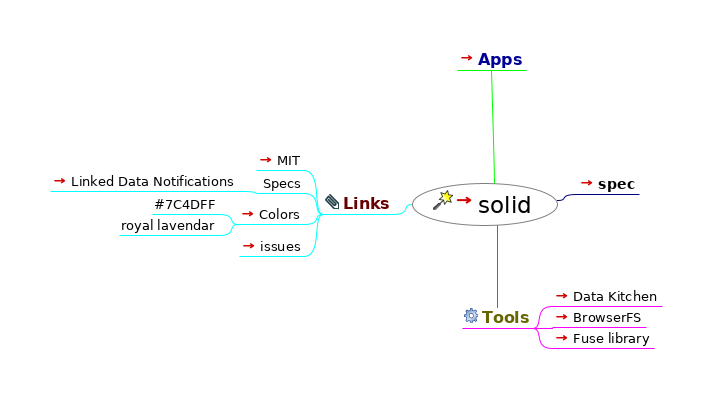
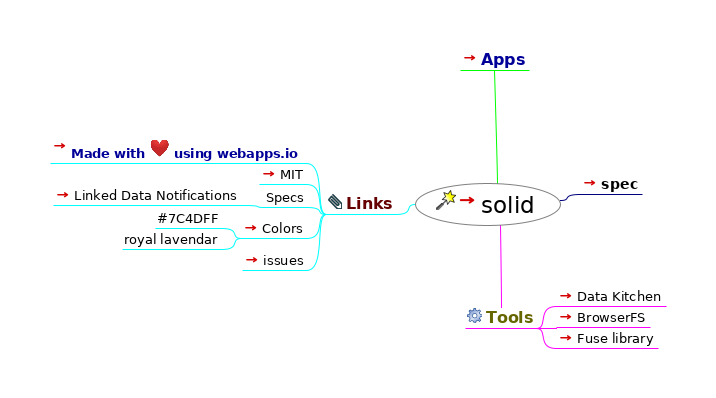
fix typo

diff --git a/index.html b/index.html
@@ -23,22 +23,25 @@
                    };
                };
           
-          --></script></head><body><h1>solid</h1><div style="width:96%;  padding:2%;  margin-bottom:10px;  border: 0px;  text-align:center;  vertical-align:center;"><img src="index.html_files/image.png" style="margin-bottom:10px; &#9;border: 0px; &#9;text-align:center; &#9;vertical-align:center;" alt="Imagemap" usemap="#fm_imagemap" /></div><map name="fm_imagemap" id="fm_imagemap"><area shape="rect" href="../tech/index.html" alt="solid" title="solid" coords="412,183,558,226" />
-<area shape="rect" href="apps/index.html" alt="Apps" title="Apps" coords="457,50,526,70" />
-<area shape="rect" href="spec/index.html" alt="spec" title="spec" coords="577,175,639,194" />
-<area shape="rect" href="#FMID_1810859973FM" alt="Tools" title="Tools" coords="462,308,533,328" />
-<area shape="rect" href="https://github.com/solid/data-kitchen" alt="Data Kitchen" title="Data Kitchen" coords="552,288,662,306" />
-<area shape="rect" href="https://github.com/jvilk/BrowserFS" alt="BrowserFS" title="BrowserFS" coords="552,309,646,327" />
-<area shape="rect" href="https://github.com/fuse-friends/fuse-native" alt="Fuse library" title="Fuse library" coords="552,330,654,348" />
-<area shape="rect" href="#FMID_777477932FM" alt="Links" title="Links" coords="323,194,393,214" />
-<area shape="rect" href="https://solid.mit.edu" alt="MIT" title="MIT" coords="256,152,304,170" />
-<area shape="rect" href="#FMID_1604622862FM" alt="Specs" title="Specs" coords="261,175,304,193" />
-<area shape="rect" href="https://www.w3.org/TR/ldn/" alt="Linked Data Notifications" title="Linked Data Notifications" coords="50,173,242,191" />
-<area shape="rect" href="https://design.inrupt.com/atomic-core/?cat=Core#Colors" alt="Colors" title="Colors" coords="238,206,304,224" />
-<area shape="rect" href="#FMID_1864362129FM" alt="#7C4DFF" title="#7C4DFF" coords="152,196,219,214" />
-<area shape="rect" href="#FMID_1993946970FM" alt="royal lavendar" title="royal lavendar" coords="119,217,219,235" />
-<area shape="rect" href="issues/index.html" alt="issues" title="issues" coords="239,238,304,256" />
+          --></script></head><body><h1>solid</h1><div style="width:96%;  padding:2%;  margin-bottom:10px;  border: 0px;  text-align:center;  vertical-align:center;"><img src="index.html_files/image.png" style="margin-bottom:10px; &#9;border: 0px; &#9;text-align:center; &#9;vertical-align:center;" alt="Imagemap" usemap="#fm_imagemap" /></div><map name="fm_imagemap" id="fm_imagemap"><area shape="rect" href="../tech/index.html" alt="solid" title="solid" coords="415,183,561,226" />
+<area shape="rect" href="apps/index.html" alt="Apps" title="Apps" coords="460,50,529,70" />
+<area shape="rect" href="spec/index.html" alt="spec" title="spec" coords="580,175,642,194" />
+<area shape="rect" href="#FMID_1810859973FM" alt="Tools" title="Tools" coords="465,308,537,328" />
+<area shape="rect" href="https://github.com/solid/data-kitchen" alt="Data Kitchen" title="Data Kitchen" coords="556,288,666,306" />
+<area shape="rect" href="https://github.com/jvilk/BrowserFS" alt="BrowserFS" title="BrowserFS" coords="556,309,650,327" />
+<area shape="rect" href="https://github.com/fuse-friends/fuse-native" alt="Fuse library" title="Fuse library" coords="556,330,658,348" />
+<area shape="rect" href="#FMID_777477932FM" alt="Links" title="Links" coords="326,194,396,214" />
+<area shape="rect" href="https://webapps.io/" alt="Made with  using webapps.io" title="Made with  using webapps.io" coords="50,138,307,163" />
+<area shape="rect" href="https://solid.mit.edu" alt="MIT" title="MIT" coords="259,166,307,184" />
+<area shape="rect" href="#FMID_1604622862FM" alt="Specs" title="Specs" coords="264,189,307,207" />
+<area shape="rect" href="https://www.w3.org/TR/ldn/" alt="Linked Data Notifications" title="Linked Data Notifications" coords="53,187,245,205" />
+<area shape="rect" href="https://design.inrupt.com/atomic-core/?cat=Core#Colors" alt="Colors" title="Colors" coords="241,220,307,238" />
+<area shape="rect" href="#FMID_1864362129FM" alt="#7C4DFF" title="#7C4DFF" coords="155,210,222,228" />
+<area shape="rect" href="#FMID_1993946970FM" alt="royal lavendar" title="royal lavendar" coords="122,231,222,249" />
+<area shape="rect" href="issues/index.html" alt="issues" title="issues" coords="242,252,307,270" />
 </map>
 
-<div class="node"><img src="index.html_files/hide.png" class="hideshow" alt="hide" onClick="toggle(&quot;N65543&quot;)" id="imgN65543" /><img src="index.html_files/icons/wizard.svg" alt="wizard" /> <a id="FMID_237352286FM" /><div class="nodecontent" style="color:#000000;font-size:150%;"><a href="../tech/index.html">solid</a> <a href="../tech/index.html"><img src="index.html_files/ilink.png" alt="User Link" style="border-width:0" /></a></div><div class="content" id="N65543"><div class="node"><img src="index.html_files/leaf.png" class="hideshow" alt="leaf" /><a id="FMID_1861071781FM" /><div class="nodecontent" style="color:#000099;font-size:100%;font-weight:bold;"><a href="apps/index.html">Apps</a> <a href="apps/index.html"><img src="index.html_files/ilink.png" alt="User Link" style="border-width:0" /></a></div></div><div class="node"><img src="index.html_files/leaf.png" class="hideshow" alt="leaf" /><a id="FMID_45632273FM" /><div class="nodecontent" style="color:#000000;font-size:92%;font-weight:bold;"><a href="spec/index.html">spec</a> <a href="spec/index.html"><img src="index.html_files/ilink.png" alt="User Link" style="border-width:0" /></a></div></div><div class="node"><img src="index.html_files/hide.png" class="hideshow" alt="hide" onClick="toggle(&quot;N66523&quot;)" id="imgN66523" /><img src="index.html_files/icons/executable.svg" alt="executable" /> <a id="FMID_1810859973FM" /><div class="nodecontent" style="color:#666600;font-size:100%;font-weight:bold;">Tools</div><div class="content" id="N66523"><div class="node"><img src="index.html_files/leaf.png" class="hideshow" alt="leaf" /><a id="FMID_464490085FM" /><div class="nodecontent" style="color:#000000;font-size:83%;"><a href="https://github.com/solid/data-kitchen">Data Kitchen</a> <a href="https://github.com/solid/data-kitchen"><img src="index.html_files/ilink.png" alt="User Link" style="border-width:0" /></a></div></div><div class="node"><img src="index.html_files/leaf.png" class="hideshow" alt="leaf" /><a id="FMID_254470917FM" /><div class="nodecontent" style="color:#000000;font-size:83%;"><a href="https://github.com/jvilk/BrowserFS">BrowserFS</a> <a href="https://github.com/jvilk/BrowserFS"><img src="index.html_files/ilink.png" alt="User Link" style="border-width:0" /></a></div></div><div class="node"><img src="index.html_files/leaf.png" class="hideshow" alt="leaf" /><a id="FMID_845285837FM" /><div class="nodecontent" style="color:#000000;font-size:83%;"><a href="https://github.com/fuse-friends/fuse-native">Fuse library</a> <a href="https://github.com/fuse-friends/fuse-native"><img src="index.html_files/ilink.png" alt="User Link" style="border-width:0" /></a></div></div></div></div><div class="node"><img src="index.html_files/hide.png" class="hideshow" alt="hide" onClick="toggle(&quot;N66678&quot;)" id="imgN66678" /><img src="index.html_files/icons/attach.svg" alt="attach" /> <a id="FMID_777477932FM" /><div class="nodecontent" style="color:#660000;font-size:100%;font-weight:bold;">Links</div><div class="content" id="N66678"><div class="node"><img src="index.html_files/leaf.png" class="hideshow" alt="leaf" /><a id="FMID_671925292FM" /><div class="nodecontent" style="color:#000000;font-size:83%;"><a href="https://solid.mit.edu">MIT</a> <a href="https://solid.mit.edu"><img src="index.html_files/ilink.png" alt="User Link" style="border-width:0" /></a></div></div><div class="node"><img src="index.html_files/hide.png" class="hideshow" alt="hide" onClick="toggle(&quot;N66756&quot;)" id="imgN66756" /><a id="FMID_1604622862FM" /><div class="nodecontent" style="color:#000000;font-size:83%;">Specs</div><div class="content" id="N66756"><div class="node"><img src="index.html_files/leaf.png" class="hideshow" alt="leaf" /><a id="FMID_1990139043FM" /><div class="nodecontent" style="color:#000000;font-size:83%;"><a href="https://www.w3.org/TR/ldn/">Linked Data Notifications</a> <a href="https://www.w3.org/TR/ldn/"><img src="index.html_files/ilink.png" alt="User Link" style="border-width:0" /></a></div></div></div></div><div class="node"><img src="index.html_files/hide.png" class="hideshow" alt="hide" onClick="toggle(&quot;N66829&quot;)" id="imgN66829" /><a id="FMID_960031878FM" /><div class="nodecontent" style="color:#000000;font-size:83%;"><a href="https://design.inrupt.com/atomic-core/?cat=Core#Colors">Colors</a> <a href="https://design.inrupt.com/atomic-core/?cat=Core#Colors"><img src="index.html_files/ilink.png" alt="User Link" style="border-width:0" /></a></div><div class="content" id="N66829"><div class="node"><img src="index.html_files/leaf.png" class="hideshow" alt="leaf" /><a id="FMID_1864362129FM" /><div class="nodecontent" style="color:#000000;font-size:83%;">#7C4DFF</div></div><div class="node"><img src="index.html_files/leaf.png" class="hideshow" alt="leaf" /><a id="FMID_1993946970FM" /><div class="nodecontent" style="color:#000000;font-size:83%;">royal lavendar</div></div></div></div><div class="node"><img src="index.html_files/leaf.png" class="hideshow" alt="leaf" /><a id="FMID_1662681886FM" /><div class="nodecontent" style="color:#000000;font-size:83%;"><a href="issues/index.html">issues</a> <a href="issues/index.html"><img src="index.html_files/ilink.png" alt="User Link" style="border-width:0" /></a></div></div></div></div></div></div>
+<div class="node"><img src="index.html_files/hide.png" class="hideshow" alt="hide" onClick="toggle(&quot;N65543&quot;)" id="imgN65543" /><img src="index.html_files/icons/wizard.svg" alt="wizard" /> <a id="FMID_237352286FM" /><div class="nodecontent" style="color:#000000;font-size:150%;"><a href="../tech/index.html">solid</a> <a href="../tech/index.html"><img src="index.html_files/ilink.png" alt="User Link" style="border-width:0" /></a></div><div class="content" id="N65543"><div class="node"><img src="index.html_files/leaf.png" class="hideshow" alt="leaf" /><a id="FMID_1861071781FM" /><div class="nodecontent" style="color:#000099;font-size:100%;font-weight:bold;"><a href="apps/index.html">Apps</a> <a href="apps/index.html"><img src="index.html_files/ilink.png" alt="User Link" style="border-width:0" /></a></div></div><div class="node"><img src="index.html_files/leaf.png" class="hideshow" alt="leaf" /><a id="FMID_45632273FM" /><div class="nodecontent" style="color:#000000;font-size:92%;font-weight:bold;"><a href="spec/index.html">spec</a> <a href="spec/index.html"><img src="index.html_files/ilink.png" alt="User Link" style="border-width:0" /></a></div></div><div class="node"><img src="index.html_files/hide.png" class="hideshow" alt="hide" onClick="toggle(&quot;N66523&quot;)" id="imgN66523" /><img src="index.html_files/icons/executable.svg" alt="executable" /> <a id="FMID_1810859973FM" /><div class="nodecontent" style="color:#666600;font-size:100%;font-weight:bold;">Tools</div><div class="content" id="N66523"><div class="node"><img src="index.html_files/leaf.png" class="hideshow" alt="leaf" /><a id="FMID_464490085FM" /><div class="nodecontent" style="color:#000000;font-size:83%;"><a href="https://github.com/solid/data-kitchen">Data Kitchen</a> <a href="https://github.com/solid/data-kitchen"><img src="index.html_files/ilink.png" alt="User Link" style="border-width:0" /></a></div></div><div class="node"><img src="index.html_files/leaf.png" class="hideshow" alt="leaf" /><a id="FMID_254470917FM" /><div class="nodecontent" style="color:#000000;font-size:83%;"><a href="https://github.com/jvilk/BrowserFS">BrowserFS</a> <a href="https://github.com/jvilk/BrowserFS"><img src="index.html_files/ilink.png" alt="User Link" style="border-width:0" /></a></div></div><div class="node"><img src="index.html_files/leaf.png" class="hideshow" alt="leaf" /><a id="FMID_845285837FM" /><div class="nodecontent" style="color:#000000;font-size:83%;"><a href="https://github.com/fuse-friends/fuse-native">Fuse library</a> <a href="https://github.com/fuse-friends/fuse-native"><img src="index.html_files/ilink.png" alt="User Link" style="border-width:0" /></a></div></div></div></div><div class="node"><img src="index.html_files/hide.png" class="hideshow" alt="hide" onClick="toggle(&quot;N66678&quot;)" id="imgN66678" /><img src="index.html_files/icons/attach.svg" alt="attach" /> <a id="FMID_777477932FM" /><div class="nodecontent" style="color:#660000;font-size:100%;font-weight:bold;">Links</div><div class="content" id="N66678"><div class="node"><img src="index.html_files/leaf.png" class="hideshow" alt="leaf" /><a id="FMID_1974475433FM" /><div class="nodecontent" style="color:#000099;font-size:83%;font-weight:bold;"><a href="https://webapps.io/">
+    Made with <img class="emoji" alt="heart" height="20" width="20" src="https://github.githubassets.com/images/icons/emoji/unicode/2764.png" style="border-top-style: none; border-right-style: none; border-bottom-style: none; border-left-style: none" /> using webapps.io
+  </a> <a href="https://webapps.io/"><img src="index.html_files/ilink.png" alt="User Link" style="border-width:0" /></a></div></div><div class="node"><img src="index.html_files/leaf.png" class="hideshow" alt="leaf" /><a id="FMID_671925292FM" /><div class="nodecontent" style="color:#000000;font-size:83%;"><a href="https://solid.mit.edu">MIT</a> <a href="https://solid.mit.edu"><img src="index.html_files/ilink.png" alt="User Link" style="border-width:0" /></a></div></div><div class="node"><img src="index.html_files/hide.png" class="hideshow" alt="hide" onClick="toggle(&quot;N66813&quot;)" id="imgN66813" /><a id="FMID_1604622862FM" /><div class="nodecontent" style="color:#000000;font-size:83%;">Specs</div><div class="content" id="N66813"><div class="node"><img src="index.html_files/leaf.png" class="hideshow" alt="leaf" /><a id="FMID_1990139043FM" /><div class="nodecontent" style="color:#000000;font-size:83%;"><a href="https://www.w3.org/TR/ldn/">Linked Data Notifications</a> <a href="https://www.w3.org/TR/ldn/"><img src="index.html_files/ilink.png" alt="User Link" style="border-width:0" /></a></div></div></div></div><div class="node"><img src="index.html_files/hide.png" class="hideshow" alt="hide" onClick="toggle(&quot;N66886&quot;)" id="imgN66886" /><a id="FMID_960031878FM" /><div class="nodecontent" style="color:#000000;font-size:83%;"><a href="https://design.inrupt.com/atomic-core/?cat=Core#Colors">Colors</a> <a href="https://design.inrupt.com/atomic-core/?cat=Core#Colors"><img src="index.html_files/ilink.png" alt="User Link" style="border-width:0" /></a></div><div class="content" id="N66886"><div class="node"><img src="index.html_files/leaf.png" class="hideshow" alt="leaf" /><a id="FMID_1864362129FM" /><div class="nodecontent" style="color:#000000;font-size:83%;">#7C4DFF</div></div><div class="node"><img src="index.html_files/leaf.png" class="hideshow" alt="leaf" /><a id="FMID_1993946970FM" /><div class="nodecontent" style="color:#000000;font-size:83%;">royal lavendar</div></div></div></div><div class="node"><img src="index.html_files/leaf.png" class="hideshow" alt="leaf" /><a id="FMID_1662681886FM" /><div class="nodecontent" style="color:#000000;font-size:83%;"><a href="issues/index.html">issues</a> <a href="issues/index.html"><img src="index.html_files/ilink.png" alt="User Link" style="border-width:0" /></a></div></div></div></div></div></div>
 </body></html>

diff --git a/index.mm b/index.mm
@@ -85,6 +85,20 @@
 <icon BUILTIN="attach"/>
 <font SIZE="12" BOLD="true"/>
 <edge COLOR="#00ffff"/>
+<node ID="ID_1974475433" CREATED="1578928125418" MODIFIED="1578930262924" LINK="https://webmaps.io/" COLOR="#000099"><richcontent TYPE="NODE">
+
+<html>
+  <head>
+    
+  </head>
+  <body>
+    Made with <img class="emoji" alt="heart" height="20" width="20" src="https://github.githubassets.com/images/icons/emoji/unicode/2764.png" style="border-top-style: none; border-right-style: none; border-bottom-style: none; border-left-style: none"/>&#160;using webmaps.io
+  </body>
+</html>
+
+</richcontent>
+<font SIZE="10" BOLD="true"/>
+</node>
 <node TEXT="MIT" ID="ID_671925292" CREATED="1573024179269" MODIFIED="1573024358704" LINK="https://solid.mit.edu"/>
 <node TEXT="Specs" ID="ID_1604622862" CREATED="1574031057044" MODIFIED="1574031060459">
 <node TEXT="Linked Data Notifications" ID="ID_1990139043" CREATED="1574031062993" MODIFIED="1574031073388" LINK="https://www.w3.org/TR/ldn/"/>
